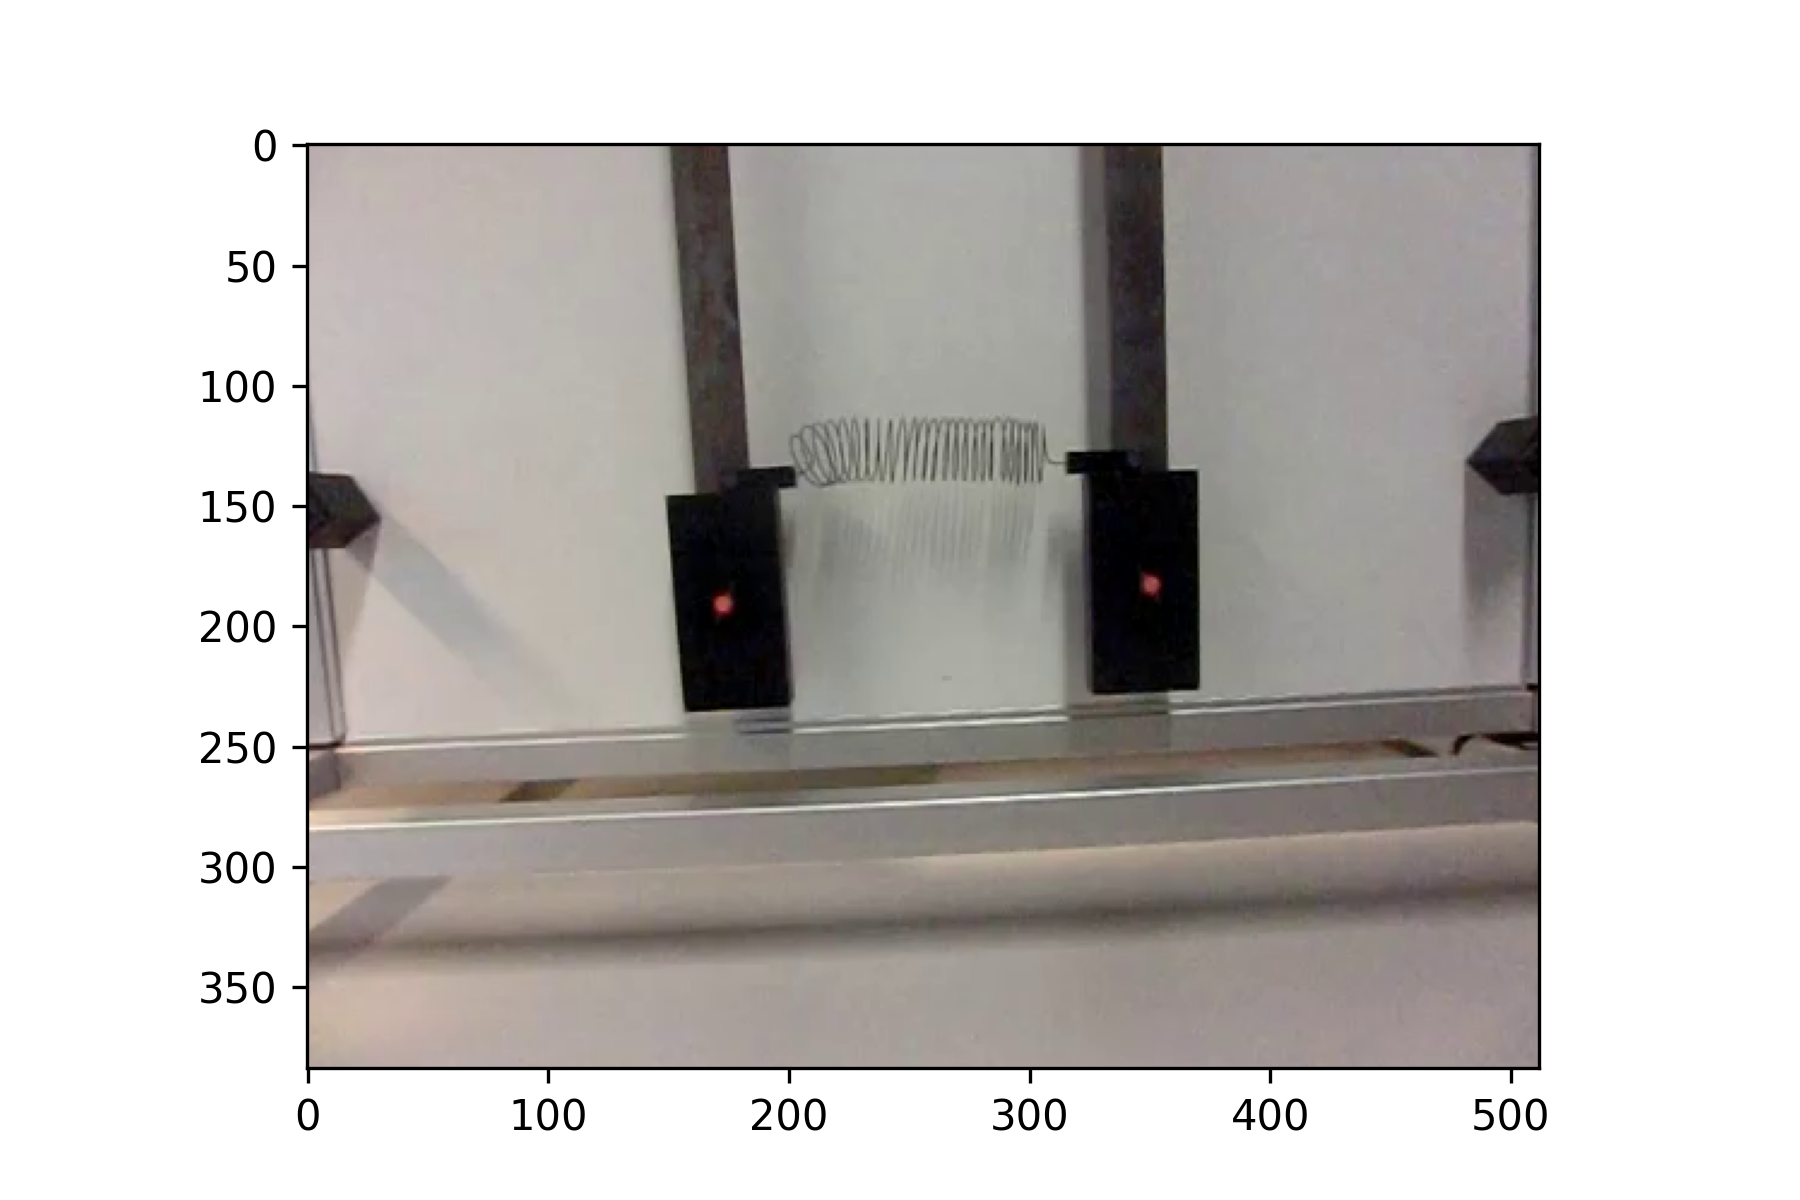
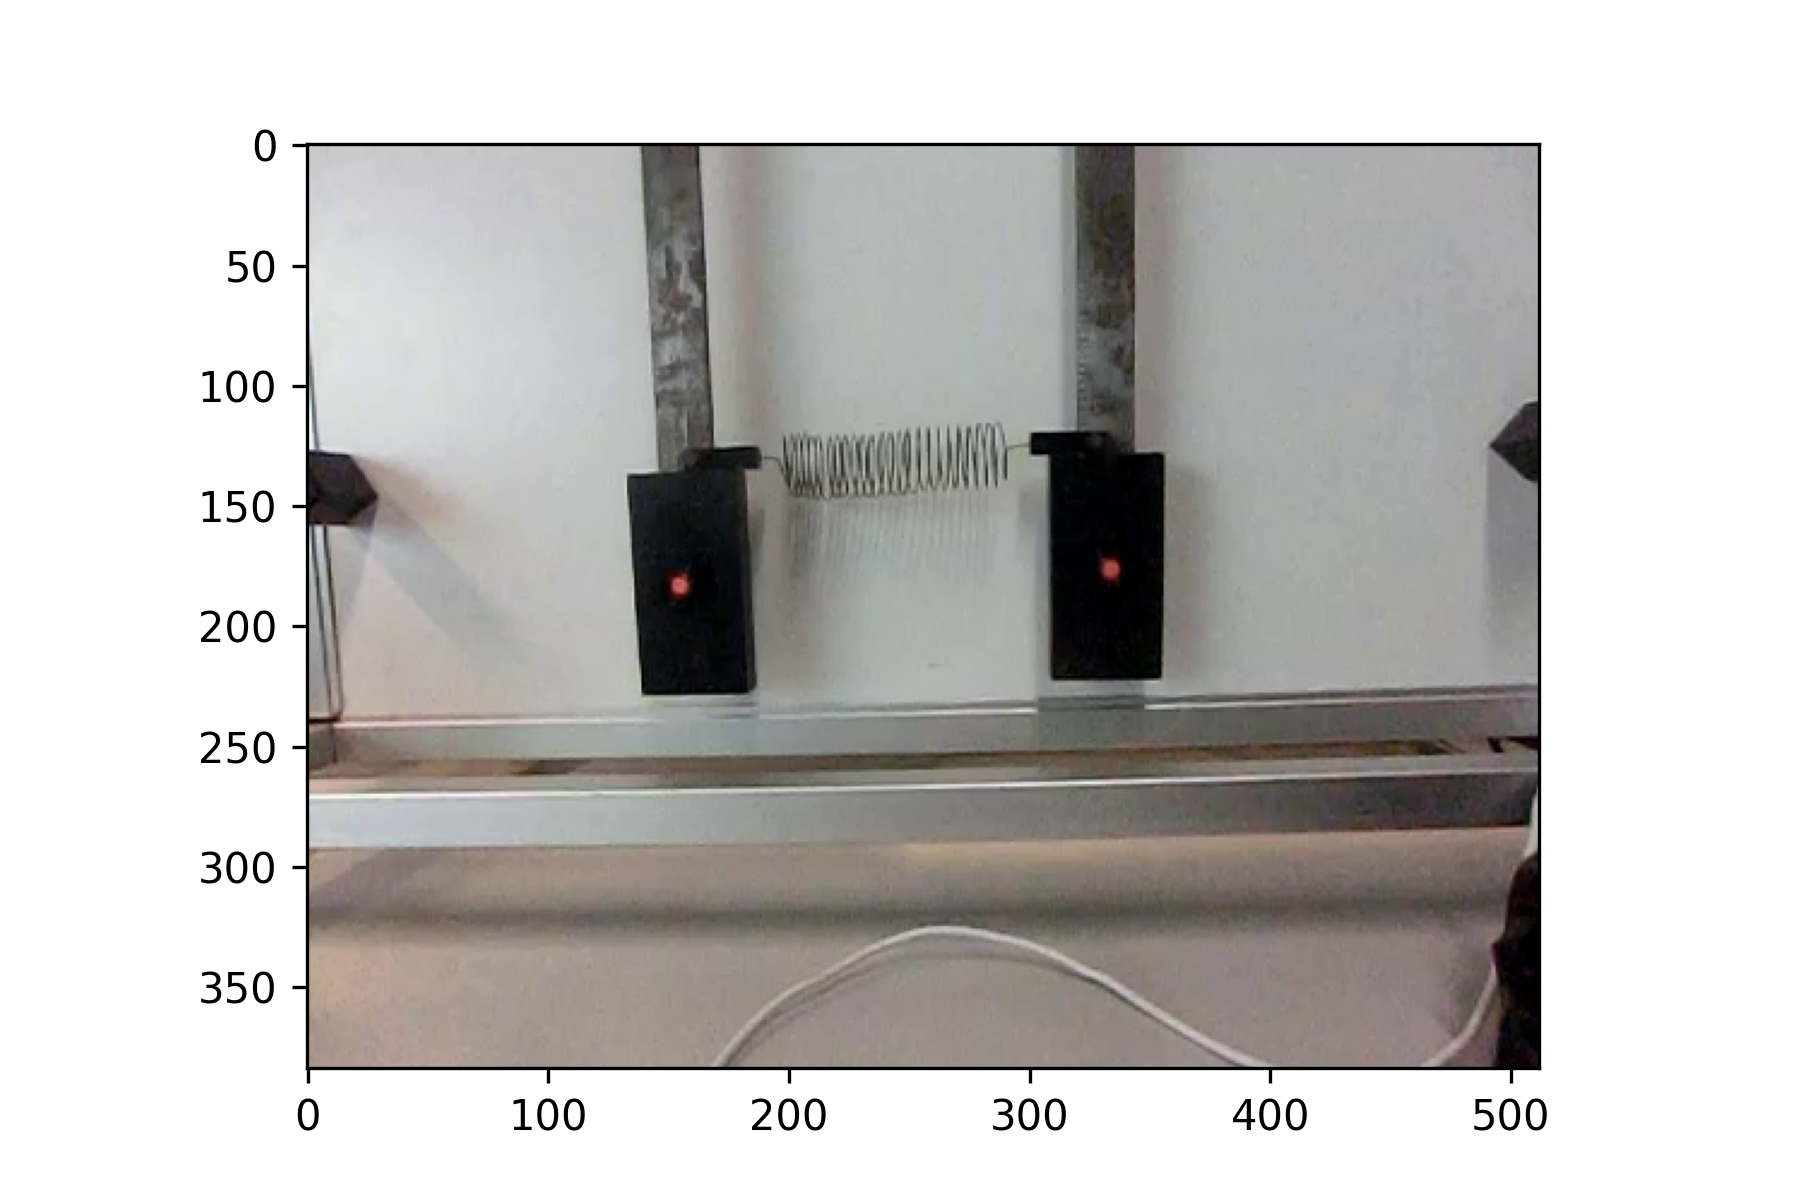
bug-fixes

Changed region(s): [[0.1556, 0.1233, 0.8711, 0.8942], [0.6222, 0.8325, 0.7156, 0.8942], [0.28, 0.8325, 0.3111, 0.8942]]

diff --git a/Test-tracking/singletracking.py b/Test-tracking/singletracking.py
@@ -42,7 +42,7 @@ directory = ''
 # Naam video
 #vidname = 'slinger.MOV' # Exilim
 #vidname = 'slinger.MP4' # GoPro
-vidname = 'testvid4.MOV' # Exilim
+vidname = 'testvid2.MOV' # Exilim
 
 # Directory om resultaten weg te schrijven 
 dir_write = ''
@@ -52,7 +52,8 @@ output_path = directory + filename_data
 # Deze tekst wordt in de header van je databestand gezet
 # Zo heb je context bij de inhoud van het databestand
 header_text = 'Exilim, slinger, 240 fps, 512x384 px, 21-01-2026 \n'
-header_text += 'frame no          x (px)          y (px)'
+header_text += 'Data uit verschillende videos gescheiden met een lege regel \n'
+header_text += 'frame nummer                x (px)                       y (px)'
 
 write_header = True
 
@@ -273,6 +274,7 @@ Tips:
 
 #%% wegschrijven na check data
 # Checken of data goed gesliced is voor wegschrijven, of dat ik opnieuw moet tracken
+# Te zien aan de vline in de onbewerkte x-positie plot
 data_goed = input("Data goed gesliced? y/n ")
 
 # Schrijf de data weg als deze goed is gesliced
